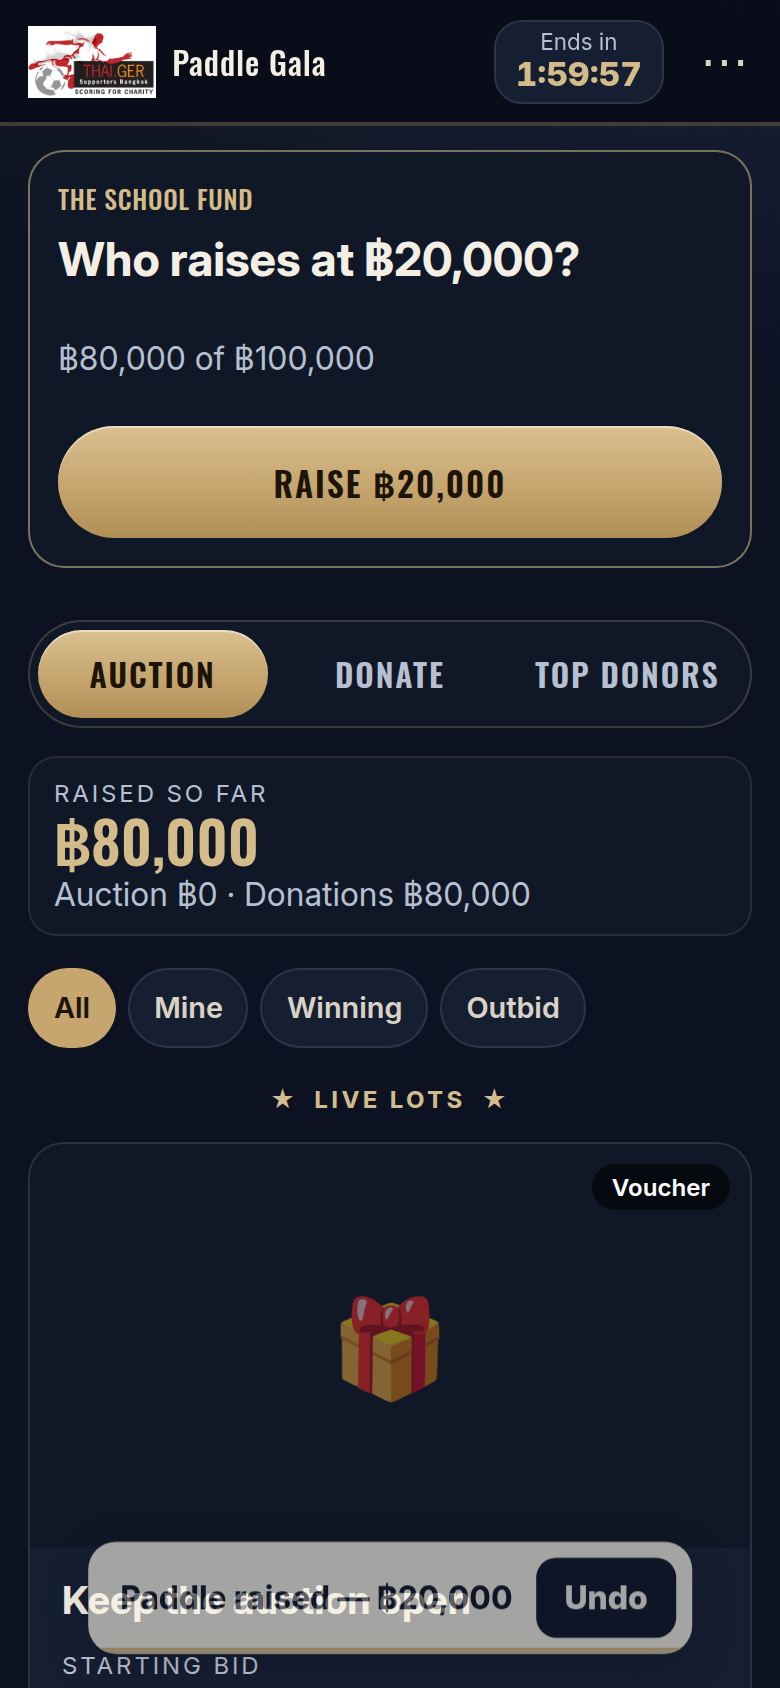
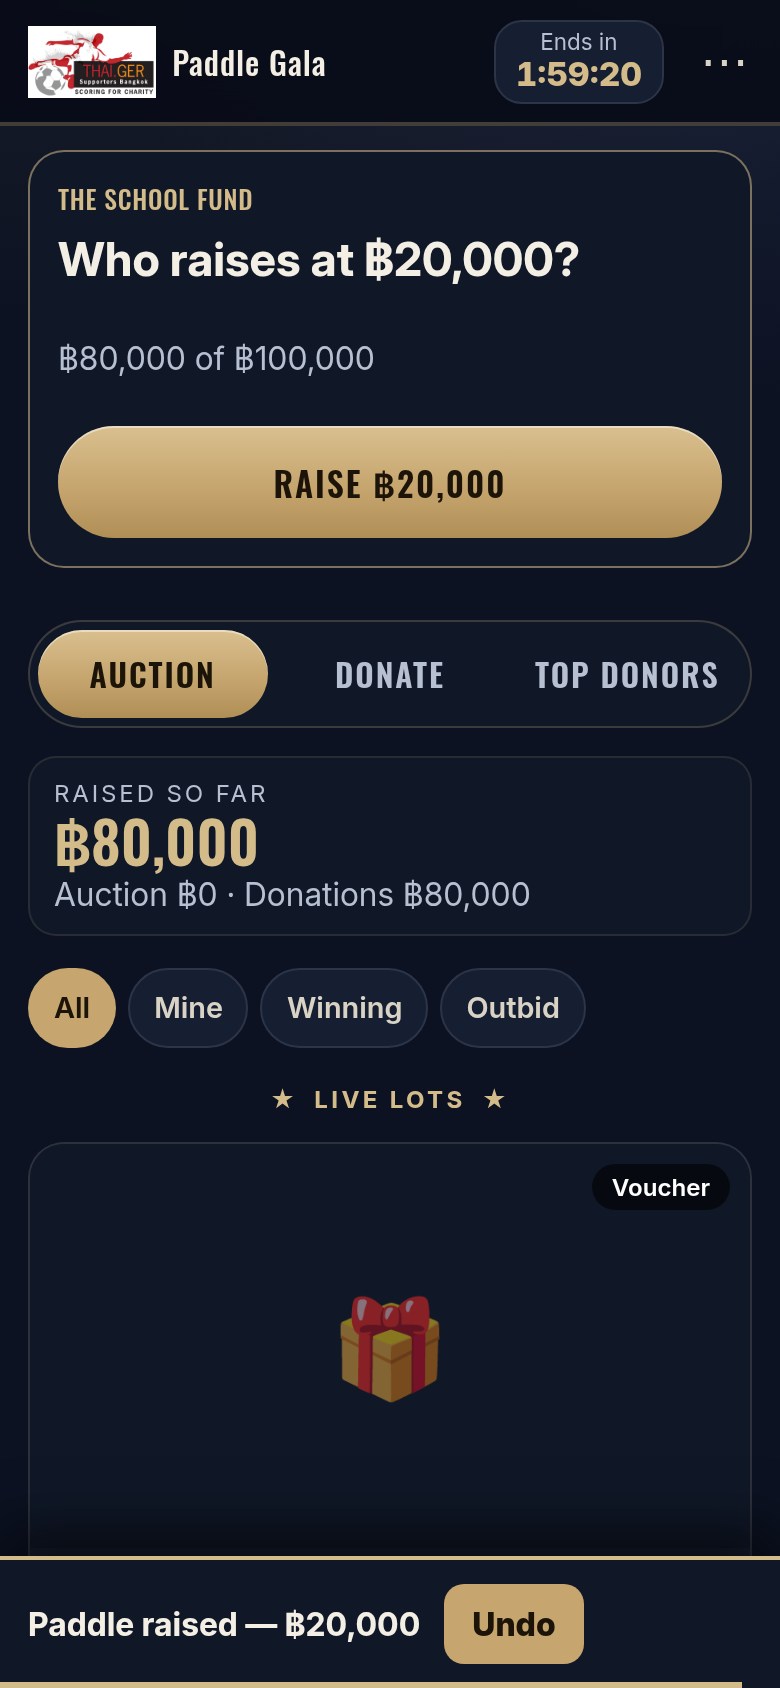
Dock guest toasts on a solid navy bar.
The confirm toast faded in over the lot title, so the light chip and the card text collided. Guest toasts now sit in their own opaque row under the scrolling list.

diff --git a/web/src/guest/guest.css b/web/src/guest/guest.css
@@ -337,11 +337,23 @@
 .g-email-form .g-big-input { font-size: 1.15rem; letter-spacing: 0; }
 
 /* —— Toast (guest pages) —— */
+/* Solid navy, not the light chip: a fading light surface let the card title show through. */
 .g-page ~ .toast, .g-page .toast {
-  bottom: calc(20px + env(safe-area-inset-bottom, 0px));
-  background: var(--text-strong, #fff); color: var(--bg, #070b16);
-  font-weight: 700; padding: 12px 18px; border-radius: 14px;
-  width: max-content; max-width: calc(100vw - 28px); text-align: center;
+  background: #101828;
+  color: #f4efe4;
+  opacity: 1;
+  border: 1px solid #c6a56e;
+  box-shadow: 0 10px 28px rgba(0, 0, 0, 0.55);
+  font-weight: 700;
+  padding: 12px 18px;
+  border-radius: 14px;
+  z-index: 40;
+}
+.g-page .toast .toast-action {
+  -webkit-appearance: none;
+  appearance: none;
+  background: #c6a56e;
+  color: #1c1408;
 }
 
 @keyframes g-slide-in {
@@ -456,6 +468,47 @@
 .toast.has-action {
   display: flex; align-items: center; gap: 12px; padding: 8px 8px 8px 16px; overflow: hidden;
 }
+/* While a toast is up, the list scrolls in the space above it instead of running under it. */
+.g-page.has-toast {
+  display: flex;
+  flex-direction: column;
+  height: 100dvh;
+  max-height: 100dvh;
+  min-height: 0;
+  padding-bottom: 0;
+}
+.g-page.has-toast .g-content {
+  flex: 1 1 auto;
+  min-height: 0;
+  overflow: auto;
+}
+.g-page.has-toast > .toast {
+  position: relative;
+  left: auto;
+  right: auto;
+  top: auto;
+  bottom: auto;
+  transform: none;
+  flex: none;
+  align-self: stretch;
+  width: auto;
+  max-width: none;
+  margin: 0;
+  border-radius: 0;
+  border-left: 0;
+  border-right: 0;
+  border-bottom: 0;
+  border-top: 2px solid #d4bc8a;
+  background: #101828;
+  color: #f4efe4;
+  padding: 12px 14px calc(12px + env(safe-area-inset-bottom, 0px));
+  box-shadow: 0 -12px 32px rgba(0, 0, 0, 0.65);
+  animation: g-toast-dock 0.18s ease-out;
+}
+@keyframes g-toast-dock {
+  from { transform: translateY(100%); }
+  to { transform: none; }
+}
 .toast-text { min-width: 0; overflow: hidden; text-overflow: ellipsis; white-space: nowrap; }
 .toast-action {
   flex: none; min-height: 40px; padding: 0 14px; border: 0; border-radius: 10px;
@@ -472,7 +525,7 @@
 /* Join: the primary button always looks tappable. */
 .g-join .g-primary:disabled { opacity: 0.7; }
 @media (prefers-reduced-motion: reduce) {
-  .g-install, .g-saved, .toast-timer { animation: none !important; }
+  .g-install, .g-saved, .toast-timer, .g-page.has-toast > .toast { animation: none !important; }
 }
 
 /* Invoice: the voucher email question sits above payment and stands out (still skippable). */

diff --git a/web/src/styles.css b/web/src/styles.css
@@ -333,13 +333,17 @@ a.button { display: inline-flex; align-items: center; justify-content: center; t
   border-radius: 999px;
   background: #065f46;
   color: #fff;
-  box-shadow: 0 6px 24px rgba(0, 0, 0, 0.3);
+  opacity: 1;
+  box-shadow: 0 8px 24px rgba(0, 0, 0, 0.45);
   animation: toast-in 0.18s ease-out;
   max-width: calc(100vw - 32px);
 }
 @keyframes toast-in {
-  from { opacity: 0; transform: translate(-50%, 8px); }
-  to { opacity: 1; transform: translate(-50%, 0); }
+  from { transform: translate(-50%, 8px); }
+  to { transform: translate(-50%, 0); }
+}
+@media (prefers-reduced-motion: reduce) {
+  .toast { animation: none; }
 }
 
 /* Newly created event card */

diff --git a/web/src/pages/BidPage.tsx b/web/src/pages/BidPage.tsx
@@ -350,7 +350,7 @@ export function BidPage() {
   const outbidVisible = Boolean(outbidItem && eventStatus === "open");
 
   return (
-    <section className={`g-page g-board${showNudge ? " has-sheet" : ""}`}>
+    <section className={`g-page g-board${showNudge ? " has-sheet" : ""}${toast ? " has-toast" : ""}`}>
       <GuestHeader
         title={live.event.title}
         status={eventStatus}

diff --git a/web/src/pages/InvoicePage.tsx b/web/src/pages/InvoicePage.tsx
@@ -261,7 +261,7 @@ export function InvoicePage() {
   );
 
   return (
-    <section className="g-page g-invoice">
+    <section className={`g-page g-invoice${toast ? " has-toast" : ""}`}>
       <header className="g-header">
         <div className="g-header-main">
           <Link to={`/e/${code}/bid`} className="g-back" aria-label={t("inv.back")}>
